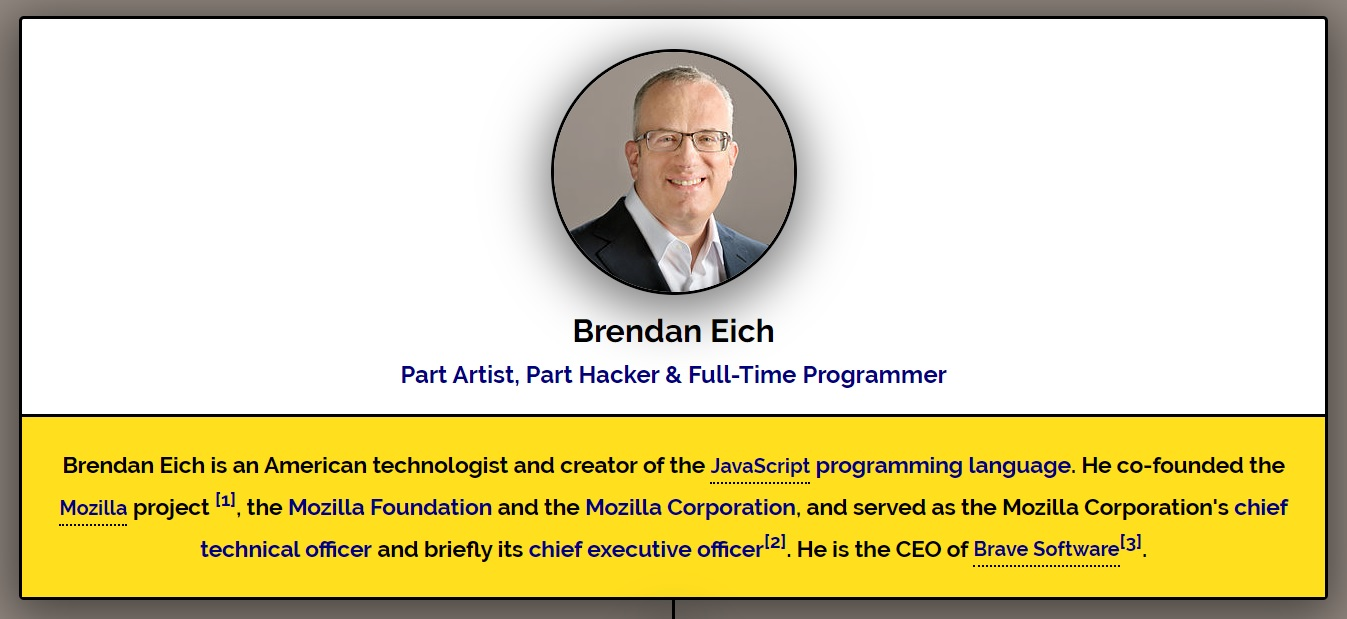
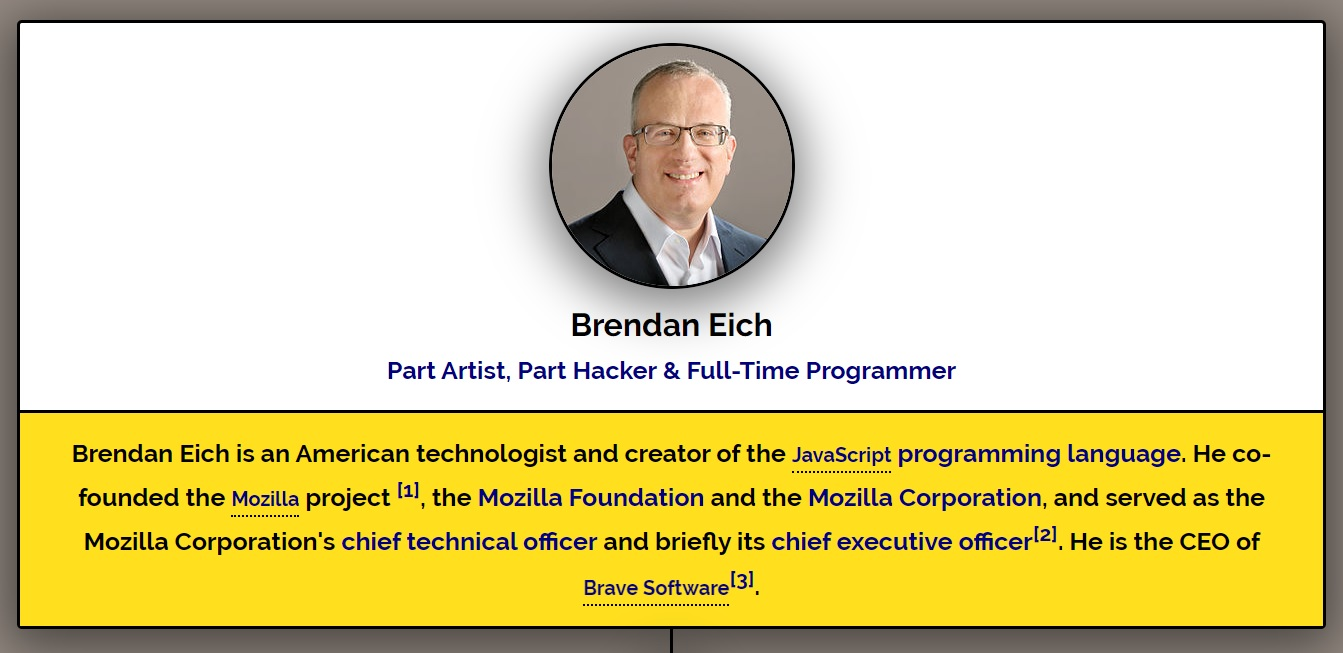
Updates

Changed region(s): [[0.0, 0.0, 1.0, 0.9822], [0.3969, 0.1535, 0.4274, 0.2456], [0.58, 0.1842, 0.6106, 0.2456]]

diff --git a/css/main.css b/css/main.css
@@ -150,7 +150,8 @@ a {
     background-color: #ffdf1e;
     padding: 2rem; }
     #img-div #img-caption .about {
-      font-size: 2rem; }
+      font-size: 2rem;
+      margin: 0; }
       #img-div #img-caption .about .name {
         font-weight: bold; }
 
@@ -441,9 +442,10 @@ footer {
 @media (max-width: 460px) {
   #main {
     margin: 0; }
-  h1 {
+  h1#title {
     font-size: 2.5rem !important;
-    line-height: 1.2; }
+    line-height: 1.2;
+    margin: 0 !important; }
   h2 {
     font-size: 1.85rem !important;
     line-height: 1.2; }
@@ -452,9 +454,6 @@ footer {
     height: 0 !important; }
   #image-small {
     visibility: visible; }
-  #title {
-    font-size: 3rem;
-    margin-bottom: 1rem; }
   h2 a span {
     display: block;
     margin-bottom: 1rem; }
@@ -471,12 +470,14 @@ footer {
     visibility: visible !important; }
   #image-small {
     visibility: hidden !important;
-    height: 0 !important; } }
+    height: 0 !important;
+    position: absolute !important; } }
 
 @media (min-width: 461px) and (max-width: 650px) {
   h1 {
     font-size: 2.75rem !important;
-    line-height: 1.2; }
+    line-height: 1.2;
+    margin: 0 !important; }
   h2 {
     font-size: 2rem !important;
     line-height: 1.2 !important;
@@ -518,11 +519,14 @@ footer {
 
 @media (min-width: 768px) {
   #img-div .img-container #image {
-    margin-top: 2rem; }
+    margin-top: 1rem; }
+  #img-div h1 {
+    margin: 0 !important; }
   #img-div h2 {
+    margin-top: 0 !important;
     margin-bottom: 2rem; }
   #img-div #img-caption {
-    padding: 3rem; }
+    padding: 2rem; }
     #img-div #img-caption .about {
       font-size: 2.25rem; }
   .timeline li.timeline-left {
@@ -539,6 +543,8 @@ footer {
     margin: auto; } }
 
 @media (min-width: 1024px) {
+  h2, .about {
+    font-size: 2.5rem !important; }
   .socials-info {
     width: 35%;
     margin: auto; } }
